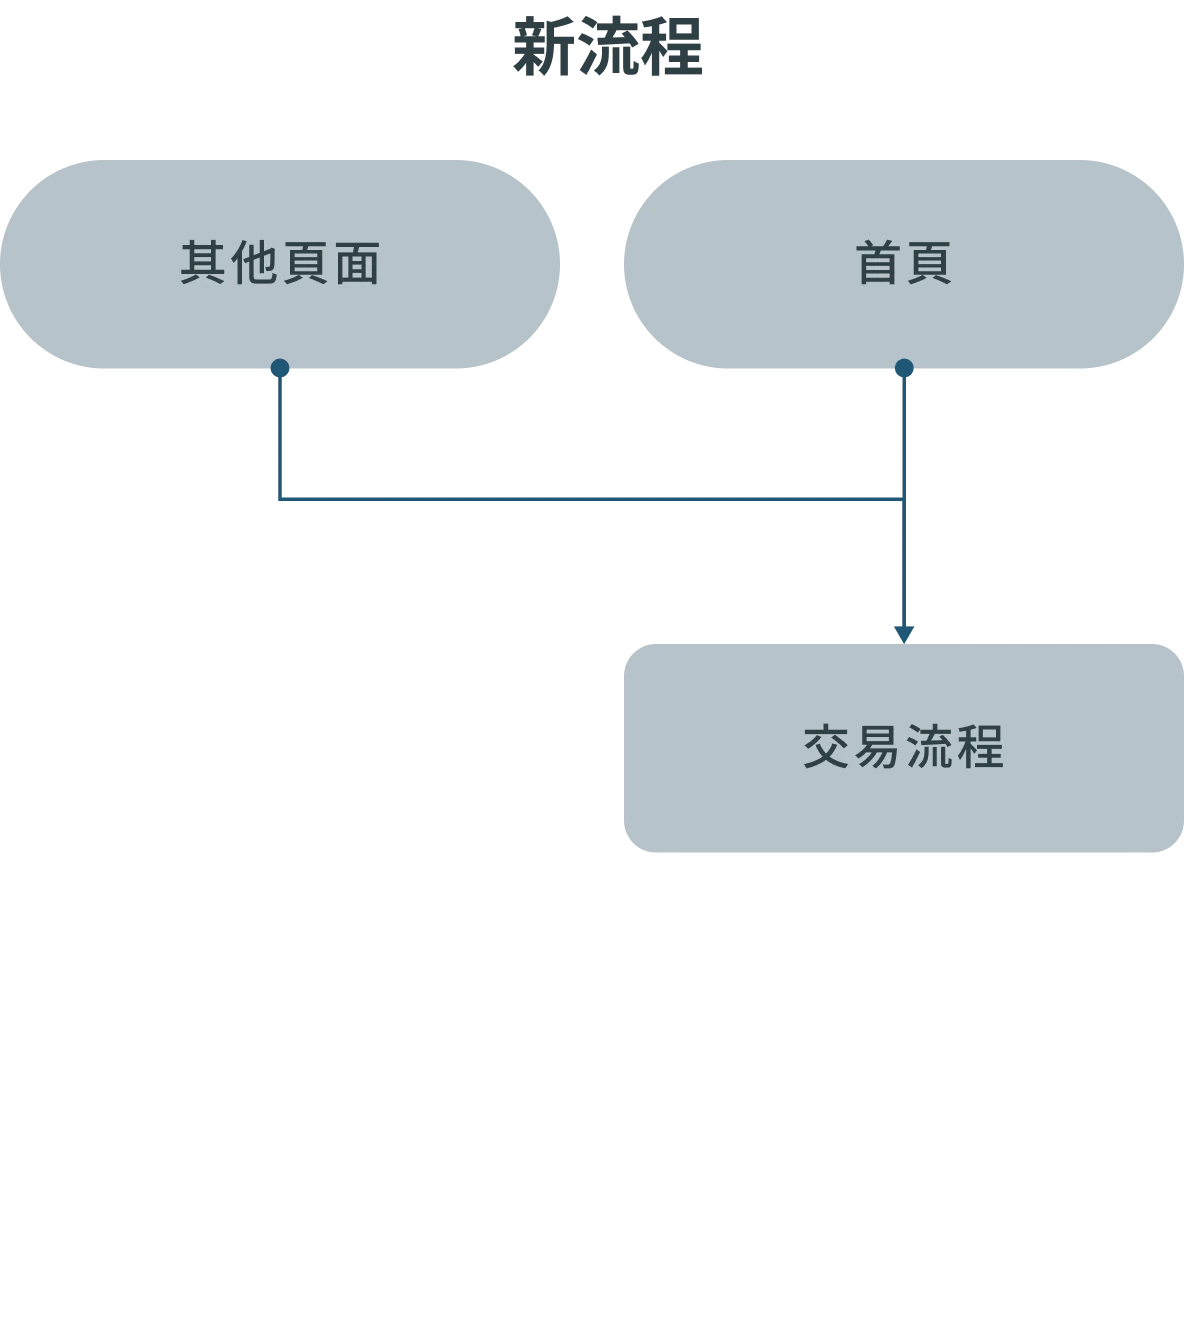
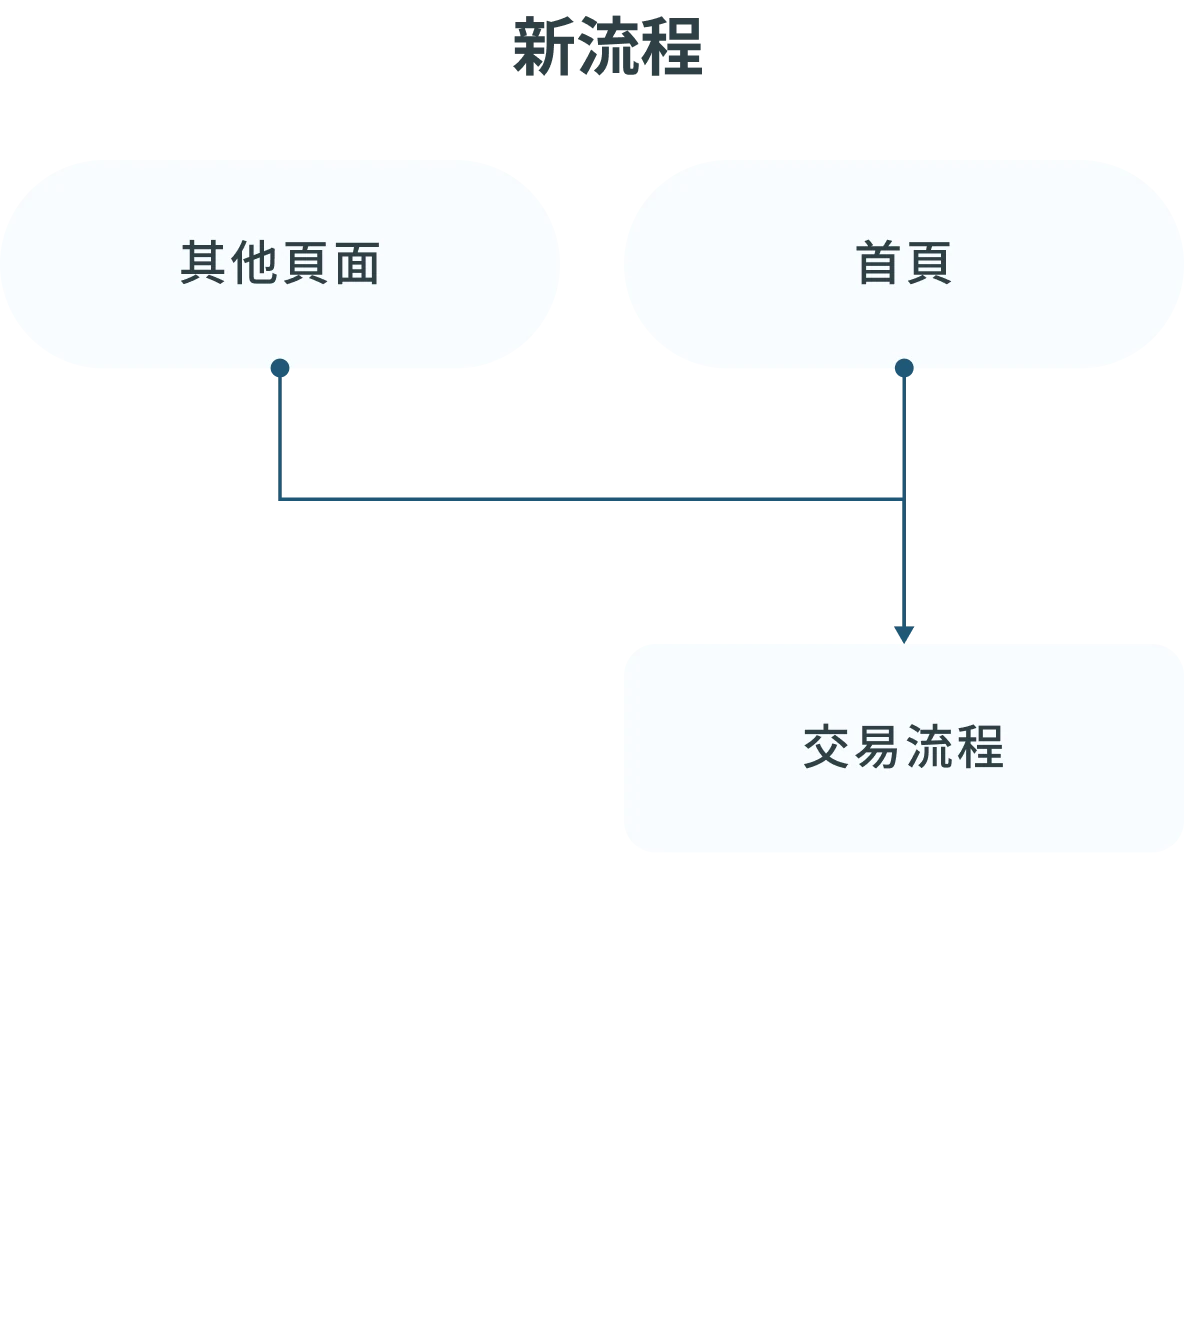
專案 web：成效區塊內文 16px，換上新版流程圖
Claude-Session: https://claude.ai/code/session_0153FkUDYTiYSM5VjChihrvY

Changed region(s): [[0.0, 0.1228, 1.0, 0.2762], [0.5, 0.4603, 1.0, 0.6445]]

diff --git a/src/data/projectDetails.js b/src/data/projectDetails.js
@@ -273,7 +273,7 @@ export const PROJECT_DETAILS = {
         heading: '改版及優化成效',
         icon: 'feather',
         title: '視覺改版反饋',
-        large: true,
+        largeTitle: true,
         full: [
           {
             title: '1.視覺改版、資訊架構優化及體驗',
